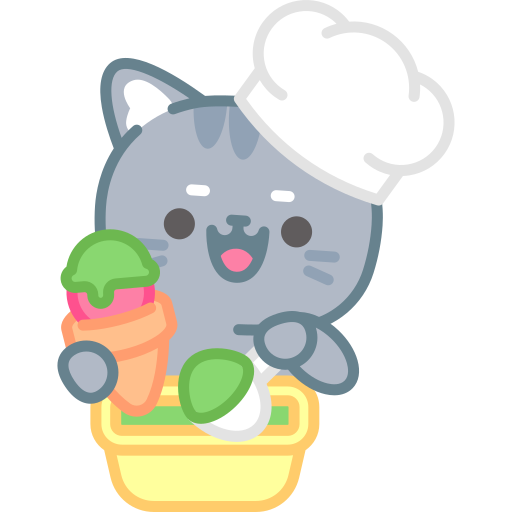
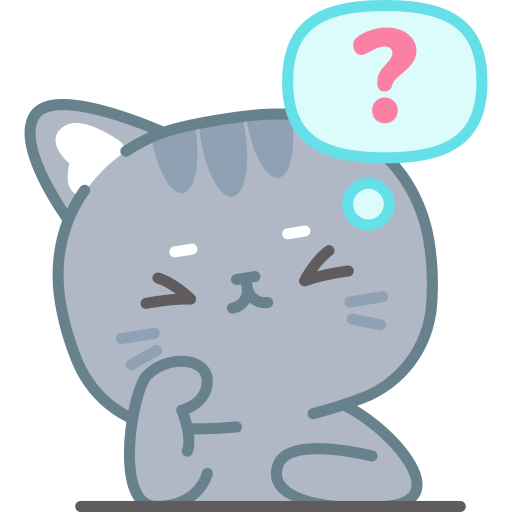
feat: change sticker and add party image in result popup screen

diff --git a/src/components/ResultPopup.jsx b/src/components/ResultPopup.jsx
@@ -1,18 +1,30 @@
 import React from 'react'
+import partySticker from '../assets/party.png'
 
 const ResultPopup = ({ food, onClose }) => {
   return (
     <div className="fixed inset-0 bg-black bg-opacity-50 flex items-center justify-center z-50 animate-fade-in px-4">
       <div
-        className="rounded-3xl md:rounded-[2.5rem] p-8 md:p-12 lg:p-16 mx-6 max-w-sm md:max-w-md lg:max-w-lg w-full shadow-2xl animate-bounce-in"
+        className="rounded-3xl md:rounded-[2.5rem] p-8 md:p-12 lg:p-16 mx-6 max-w-sm md:max-w-md lg:max-w-lg w-full shadow-2xl animate-bounce-in relative"
         style={{ backgroundColor: '#EC2578' }}
       >
         {/* Food Image */}
-        <div className="flex justify-center mb-6 md:mb-8">
+        <div className="flex justify-center mb-6 md:mb-8 relative">
           <img
             src={food.image}
             alt={food.name}
             className="w-48 h-48 md:w-64 md:h-64 lg:w-80 lg:h-80 object-cover rounded-2xl md:rounded-3xl"
+          />
+          {/* Party Cat Sticker - Bottom Left Corner */}
+          <img
+            src={partySticker}
+            alt="Party Cat"
+            className="absolute -bottom-3 -left-3 md:-bottom-4 md:-left-4 w-14 h-14 md:w-20 md:h-20 lg:w-24 lg:h-24 object-contain animate-bounce-in z-10"
+            style={{
+              animationDelay: '0.2s',
+              transform: 'rotate(-12deg)',
+              filter: 'drop-shadow(0 4px 6px rgba(0, 0, 0, 0.2))',
+            }}
           />
         </div>
 
